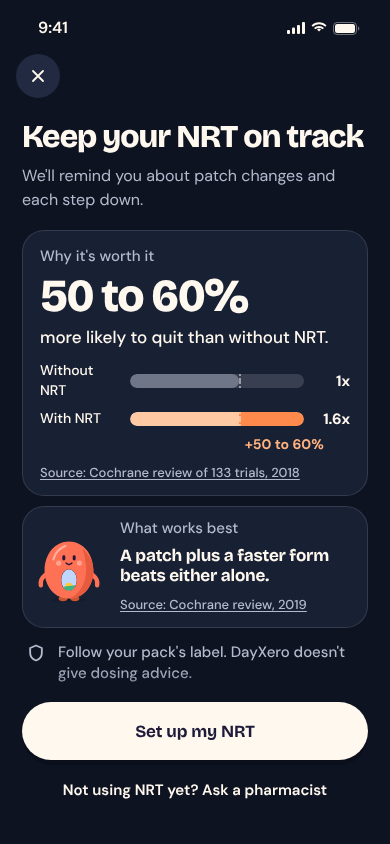
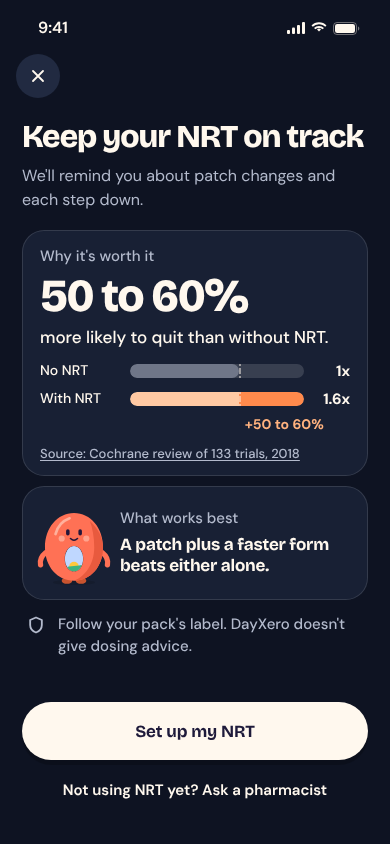
Cook: round 4 in progress
Claude-Session: https://claude.ai/code/session_01DZ7ApmrncqosUtJWfkxY6v

Changed region(s): [[0.0923, 0.4313, 0.8923, 0.8009], [0.0615, 0.7085, 0.1231, 0.8009]]

diff --git a/cook/site/screens/047-nrt.html b/cook/site/screens/047-nrt.html
@@ -60,6 +60,13 @@
           </div>
           <a class="source">Source: Cochrane review of 133 trials, 2018</a>
         </div>
+        <div class="card best" data-a style="--i:3">
+          <div class="x" data-settle style="--d:600ms"><div class="bob" id="xero"></div></div>
+          <div class="grow">
+            <p class="t-foot lbl">What works best</p>
+            <p class="t-head" style="font-size:17px">A patch plus a faster form beats either alone.</p>
+          </div>
+        </div>
         <div class="caution t-foot" data-a style="--i:4">
           <span data-ic="shield"></span>
           <span>Follow your pack's label. DayXero doesn't give dosing advice.</span>
@@ -75,5 +82,6 @@
 <script>
   document.querySelectorAll('[data-ic]').forEach(e => e.innerHTML = DX.icon(e.dataset.ic));
   document.querySelectorAll('[data-ic2]').forEach(e => e.insertAdjacentHTML('afterbegin', DX.icon(e.dataset.ic2, { w: 2.4 })));
+  document.getElementById('xero').innerHTML = DX.char('xero', { mood: 'hello', size: 88 });
 </script>
 </body></html>
